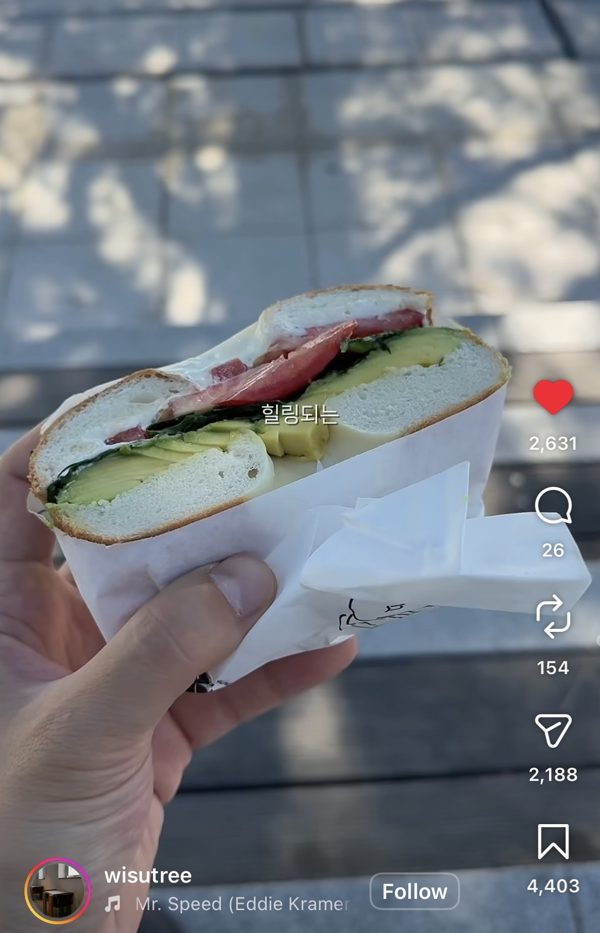
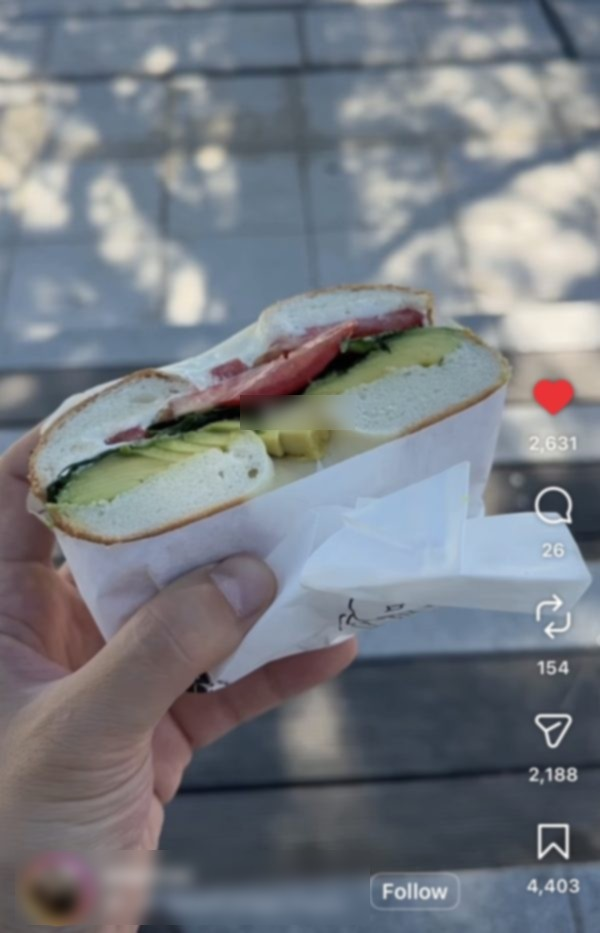
강점 설명 보강, 업로드율 설명 추가, 10월 CPM 제외, 가운뎃점 정리, 재협업 이미지 블러

diff --git a/index.html b/index.html
@@ -146,6 +146,7 @@ td.r,th.r{text-align:right}
 .res{border-left:3px solid var(--sky-deep);padding:4px 0 4px 14px}
 .res .v{font-family:var(--display);font-weight:800;font-size:28px;line-height:1.15}
 .res .k{font-size:13px;color:var(--muted)}
+.res-note{margin:16px 0 0!important;font-size:14px;background:var(--card);border:1px solid var(--line);border-radius:12px;padding:12px 16px}
 .insight{background:var(--ink);color:#fff;border-radius:14px;padding:22px 24px}
 .insight .mono{color:var(--sky)}
 .insight ul{margin:8px 0 0;padding-left:18px}
@@ -208,12 +209,12 @@ footer.end .c{font-family:var(--mono);font-size:13px;line-height:1.9;text-align:
   <nav class="toc" aria-label="목차">
     <div class="who">오혜주</div>
     <a href="#about">About</a>
-    <a href="#tools">툴·광고 플랫폼</a>
+    <a href="#tools">툴 및 광고 플랫폼</a>
     <a href="#projects">핵심 프로젝트</a>
     <a href="#project-01">01 외국인 크리에이터 시딩</a>
     <a href="#project-02">02 성과 기반 유가 협업</a>
     <a href="#other-works">기타 프로젝트</a>
-    <a href="#career">경력·학력</a>
+    <a href="#career">경력 및 학력</a>
     <div class="contact">hyejoo0109@gmail.com<br>010-8365-5241</div>
   </nav>
 
@@ -255,18 +256,18 @@ footer.end .c{font-family:var(--mono);font-size:13px;line-height:1.9;text-align:
           <p class="lead">소비자가 실제로 저장하는 정보형 콘텐츠 안에 브랜드를 넣고, 성과가 검증된 크리에이터와 오래 일하며, 결과는 숫자로 비교합니다.</p>
           <ul>
             <li>호주 오베이글 하우스 바리스타로 입사, 한국 진출과 함께 귀국해 마케팅 매니저로 승진</li>
-            <li>미국 국무부 Global UGRAD 교환학생, 호주 거주·근무 약 2년</li>
+            <li>미국 국무부 Global UGRAD 교환학생, 호주에서 약 2년간 거주하며 근무</li>
           </ul>
           <div class="chips">
             <span class="chip on">TikTok 외국인 무가 시딩</span>
             <span class="chip on">Instagram Reels 유가 협업</span>
-            <span class="chip on">Threads · 샤오홍슈</span>
+            <span class="chip on">Threads, 샤오홍슈</span>
           </div>
           <div class="cols2">
-            <div><h3>Creator Relations</h3><p>성과 기반 재협업으로 비용 대비 조회수 3.7배</p></div>
-            <div><h3>Content Guide Planning</h3><p>여행자가 찾는 정보형 콘텐츠 가이드로 1건당 조회수 3.6배</p></div>
-            <div><h3>Performance Analytics</h3><p>CPM·저장·공유 기준 비교로 유가 협업 CPM 73% 개선</p></div>
-            <div><h3>Global Communication</h3><p>TOEIC 930, TOEIC Speaking AL, 영문 섭외·가이드 직접 작성</p></div>
+            <div><h3>Creator Relations</h3><p>성과가 좋았던 크리에이터, 우리 매장 컨셉과 잘 맞는 크리에이터와 재협업하며 오래 함께 일합니다. 오프라인 요가 행사를 열어 크리에이터끼리 만나는 네트워킹 자리도 만들었습니다. 재협업 비용 대비 조회수 3.7배</p></div>
+            <div><h3>Content Guide Planning</h3><p>외국인 여행자가 찾는 정보, 그리고 한국 손님이 매장이 있는 동네까지 오게 만드는 코스를 가이드에 담습니다. 사람들은 식당 하나만 보고 움직이기보다 주변에서 함께 할 것들을 생각하기 때문입니다. 업로드 1건당 조회수 3.6배</p></div>
+            <div><h3>Performance Analytics</h3><p>CPM, 저장, 공유 수를 같은 기준으로 비교해 유가 협업 CPM 73% 개선</p></div>
+            <div><h3>Global Communication</h3><p>해외 마케팅 에이전시, 호주 본사 직원, 외국인 인플루언서와 모두 영어로 직접 소통합니다. 영문 섭외 메일과 가이드도 직접 씁니다. TOEIC 930, TOEIC Speaking AL</p></div>
           </div>
         </div>
       </div>
@@ -276,12 +277,12 @@ footer.end .c{font-family:var(--mono);font-size:13px;line-height:1.9;text-align:
     <section id="tools">
       <div class="sec-head"><span class="mono">Skill &amp; Tool Stack</span><h2>사용 가능한 툴 및 광고 플랫폼</h2></div>
       <div class="tools">
-        <div class="tool"><b>TikTok · Instagram 인사이트</b><span>게시물별 조회·저장·공유 추출, 크리에이터 선별 기준 수립</span></div>
-        <div class="tool"><b>Google Sheets</b><span>섭외부터 업로드까지 파이프라인 시트, 크리에이터별 CPM 비교·등급표</span></div>
-        <div class="tool"><b>Meta 광고</b><span>호주·한국 캠페인 세팅, 타깃·소재별 성과 비교</span></div>
+        <div class="tool"><b>TikTok, Instagram 인사이트</b><span>게시물별 조회수, 저장 수, 공유 수 추출, 크리에이터 선별 기준 수립</span></div>
+        <div class="tool"><b>Google Sheets</b><span>섭외부터 업로드까지 파이프라인 시트, 크리에이터별 CPM 비교표와 등급표</span></div>
+        <div class="tool"><b>Meta 광고</b><span>호주와 한국 캠페인 세팅, 타깃별 소재별 성과 비교</span></div>
         <div class="tool"><b>Google Ads</b><span>검색광고 운영, 크리에이터 시딩과 비용 대비 성과 비교</span></div>
-        <div class="tool"><b>Shopify</b><span>호주 스토어 상세페이지·배송 안내·카테고리 개선</span></div>
-        <div class="tool"><b>Claude Code</b><span>사내 웹앱 기능 개발(Next.js·Supabase), 반복 업무 자동화</span></div>
+        <div class="tool"><b>Shopify</b><span>호주 스토어 상세페이지, 배송 안내, 카테고리 개선</span></div>
+        <div class="tool"><b>Claude Code</b><span>사내 웹앱 기능 개발(Next.js, Supabase), 반복 업무 자동화</span></div>
       </div>
     </section>
 
@@ -289,10 +290,10 @@ footer.end .c{font-family:var(--mono);font-size:13px;line-height:1.9;text-align:
     <section id="projects">
       <div class="sec-head"><span class="mono">Core Projects</span><h2>핵심 프로젝트</h2></div>
       <div class="cards">
-        <a class="pcard" href="#project-01"><span class="mono">Project 01 · 2026.03 – 2026.10</span><b>외국인 크리에이터 시딩 캠페인</b><span>제안·기획·운영</span><em>1건당 조회수 3.6배</em><i>상세 보기 →</i></a>
-        <a class="pcard" href="#project-02"><span class="mono">Project 02 · 2026.06 – 2026.10</span><b>성과 기반 유가 협업</b><span>기획·협상·운영</span><em>CPM 73% 개선</em><i>상세 보기 →</i></a>
-        <a class="pcard" href="#other-works"><span class="mono">Project 03 · Other Works</span><b>오프라인 행사 및 중개업</b><span>크리에이터 행사 · 한국 브랜드 호주 진출 지원</span><em>호주 진출 브랜드 2곳</em><i>상세 보기 →</i></a>
-        <a class="pcard" href="#work-webapp"><span class="mono">Project 04 · Other Works</span><b>웹앱 바이브 코딩 – 출퇴근 기록부 제작</b><span>Claude Code · Next.js · Supabase</span><em>집계 시간 3시간 → 5분</em><i>상세 보기 →</i></a>
+        <a class="pcard" href="#project-01"><span class="mono">Project 01 / 2026.03 ~ 2026.10</span><b>외국인 크리에이터 시딩 캠페인</b><span>제안, 기획, 운영</span><em>1건당 조회수 3.6배</em><i>상세 보기 →</i></a>
+        <a class="pcard" href="#project-02"><span class="mono">Project 02 / 2026.06 ~ 2026.10</span><b>성과 기반 유가 협업</b><span>기획, 협상, 운영</span><em>CPM 73% 개선</em><i>상세 보기 →</i></a>
+        <a class="pcard" href="#other-works"><span class="mono">Project 03 / Other Works</span><b>오프라인 행사 및 중개업</b><span>크리에이터 행사, 한국 브랜드 호주 진출 지원</span><em>호주 진출 브랜드 2곳</em><i>상세 보기 →</i></a>
+        <a class="pcard" href="#work-webapp"><span class="mono">Project 04 / Other Works</span><b>웹앱 바이브 코딩 - 출퇴근 기록부 제작</b><span>Claude Code, Next.js, Supabase</span><em>집계 시간 3시간 → 5분</em><i>상세 보기 →</i></a>
       </div>
     </section>
 
@@ -301,17 +302,17 @@ footer.end .c{font-family:var(--mono);font-size:13px;line-height:1.9;text-align:
       <div class="sec-head"><span class="mono">Project 01</span><h2>외국인 크리에이터 시딩 캠페인</h2></div>
       <div class="overview">
         <div class="ov"><div class="mono">기간</div><div>2026.03 ~ 2026.10</div></div>
-        <div class="ov"><div class="mono">Role</div><div>제안·기획·운영</div></div>
-        <div class="ov"><div class="mono">채널</div><div>TikTok · Instagram</div></div>
-        <div class="ov"><div class="mono">도구</div><div>성과 시트 · TikTok·IG 인사이트</div></div>
+        <div class="ov"><div class="mono">Role</div><div>제안, 기획, 운영</div></div>
+        <div class="ov"><div class="mono">채널</div><div>TikTok, Instagram</div></div>
+        <div class="ov"><div class="mono">도구</div><div>성과 시트, TikTok, IG 인사이트</div></div>
       </div>
 
       <div class="step">
         <div class="label"><span class="mono">배경</span><h3>손님이 어디서 오는지 몰랐다</h3></div>
         <div>
           <ul>
-            <li>홍대·망원 상권 매장, 외국인 손님은 늘었지만 유입 경로를 알 수 없었음</li>
-            <li>마케팅은 구글·네이버 검색광고에 의존</li>
+            <li>홍대, 망원 상권 매장, 외국인 손님은 늘었지만 유입 경로를 알 수 없었음</li>
+            <li>마케팅은 구글, 네이버 검색광고에 의존</li>
             <li>손님에게 "어떻게 알고 오셨어요?"를 직접 물어 틱톡 유입을 확인</li>
           </ul>
         </div>
@@ -322,16 +323,16 @@ footer.end .c{font-family:var(--mono);font-size:13px;line-height:1.9;text-align:
         <div>
           <ul>
             <li>목표: 외국인 여행자 유입 경로를 검색광고에서 크리에이터 콘텐츠로 확장</li>
-            <li>역할: 시딩 제안부터 섭외·가이드·성과 분석까지 담당</li>
+            <li>역할: 시딩 제안부터 섭외, 가이드, 성과 분석까지 담당</li>
             <li>타깃: 마포구를 찾는 외국인 여행자, 망원 한강공원 나들이 고객</li>
           </ul>
           <details><summary>크리에이터 페르소나 3가지 보기</summary>
           <div class="tbl"><table>
             <thead><tr><th>페르소나</th><th>대상</th><th>채널</th></tr></thead>
             <tbody>
-              <tr><td><b>A</b> In-Korea Creator</td><td>한국에 사는 외국인, 같은 언어권 여행자에게 영향력</td><td>틱톡·인스타 브이로그</td></tr>
-              <tr><td><b>B</b> Asia Traveler</td><td>한국 여행 중인 일본·대만 크리에이터, 비수기 근거리 수요</td><td>틱톡·인스타·샤오홍슈·Threads</td></tr>
-              <tr><td><b>C</b> Local Curator</td><td>데이트·나들이 코스를 큐레이팅하는 한국인 채널</td><td>인스타 릴스</td></tr>
+              <tr><td><b>A</b> In-Korea Creator</td><td>한국에 사는 외국인, 같은 언어권 여행자에게 영향력</td><td>틱톡, 인스타 브이로그</td></tr>
+              <tr><td><b>B</b> Asia Traveler</td><td>한국 여행 중인 일본, 대만 크리에이터, 비수기 근거리 수요</td><td>틱톡, 인스타, 샤오홍슈, Threads</td></tr>
+              <tr><td><b>C</b> Local Curator</td><td>데이트, 나들이 코스를 큐레이팅하는 한국인 채널</td><td>인스타 릴스</td></tr>
             </tbody>
           </table></div></details>
         </div>
@@ -342,16 +343,16 @@ footer.end .c{font-family:var(--mono);font-size:13px;line-height:1.9;text-align:
         <div>
           <div class="tbl"><table>
             <tbody>
-              <tr><th>선정 기준</th><td>팔로워보다 조회수·저장·공유 수, 콘텐츠의 결(맛집·공간·코스)</td></tr>
-              <tr><th>단가 기준</th><td>팔로워 3천~1만은 무가 시딩, 1만 이상은 조회수·참여율로 판단</td></tr>
-              <tr><th>콘텐츠 비율</th><td>단순 맛집 후기 95% → 후기형 6 · 지역 코스형 3 · 트렌드형 1</td></tr>
-              <tr><th>필수 요소</th><td>역 도보 거리·동네 이름, 호주 브랜드, Make your own 옵션 언급</td></tr>
-              <tr><th>파이프라인</th><td>승낙 → 방문 → 리마인드 → 업로드, 조회·저장·CPM 시트 기록</td></tr>
-              <tr><th>시즌 운영</th><td>성수기 준비 시즌 시딩 3배 확대, 겨울엔 일본·대만 유가 협업</td></tr>
+              <tr><th>선정 기준</th><td>팔로워 수보다 조회수, 저장 수, 공유 수, 콘텐츠의 결(맛집, 공간, 코스)</td></tr>
+              <tr><th>단가 기준</th><td>팔로워 3천~1만은 무가 시딩, 1만 이상은 조회수와 참여율로 판단</td></tr>
+              <tr><th>콘텐츠 비율</th><td>단순 맛집 후기 95% → 후기형 6 : 지역 코스형 3 : 트렌드형 1</td></tr>
+              <tr><th>필수 요소</th><td>역 도보 거리, 동네 이름, 호주 브랜드, Make your own 옵션 언급</td></tr>
+              <tr><th>파이프라인</th><td>승낙 → 방문 → 리마인드 → 업로드, 조회수와 저장 수, CPM을 시트에 기록</td></tr>
+              <tr><th>시즌 운영</th><td>성수기 준비 시즌 시딩 3배 확대, 겨울엔 일본, 대만 유가 협업</td></tr>
             </tbody>
           </table></div>
           <div class="duo">
-            <figure><img src="img/collab-kit.jpg" alt="영문 인플루언서 협업 키트"><figcaption>영문 협업 키트 (회사 소개·가이드라인)</figcaption></figure>
+            <figure><img src="img/collab-kit.jpg" alt="영문 인플루언서 협업 키트"><figcaption>영문 협업 키트 (회사 소개와 가이드라인)</figcaption></figure>
             <figure><img src="img/route-map.jpg" alt="망원역 주변 지역 코스 지도"><figcaption>가이드에 넣은 망원역 도보 동선</figcaption></figure>
           </div>
         </div>
@@ -369,10 +370,11 @@ footer.end .c{font-family:var(--mono);font-size:13px;line-height:1.9;text-align:
             <div class="res"><div class="v num">3h → 1h</div><div class="k">하루 시딩 업무 시간</div></div>
             <div class="res"><div class="v num">2.2배</div><div class="k">월매출 (2026년 2월 → 5월)</div></div>
           </div>
+          <p class="res-note">무가 시딩은 업로드 없이 끝나는 경우가 많은데, 방문 전후로 꼼꼼히 리마인드하고 크리에이터 한 명 한 명을 친절하게 대한 것이 평균 업로드율 94%를 지키는 데 영향을 줬다고 생각합니다.</p>
           <div class="gallery">
-            <figure><a href="https://vt.tiktok.com/ZSpttwYp2/" target="_blank" rel="noopener"><img src="img/creator-a.jpg" alt="크리에이터 A 틱톡 (영상 보기)"></a><figcaption><b>A · 남미 · 팔로워 1,300 <a href="https://vt.tiktok.com/ZSpttwYp2/" target="_blank" rel="noopener">영상 보기 ↗</a></b>조회 7만 · 저장 3,813 · 저장률 5.4%<q>You've been to Seongsu, Itaewon, Hongdae.. But have you been to Mangwon?</q></figcaption></figure>
-            <figure><a href="https://www.instagram.com/reel/DaPqTocRZYh/" target="_blank" rel="noopener"><img src="img/creator-b.jpg" alt="크리에이터 B 영상 (영상 보기)"></a><figcaption><b>B · 대만 · 팔로워 1,248 <a href="https://www.instagram.com/reel/DaPqTocRZYh/" target="_blank" rel="noopener">영상 보기 ↗</a></b>조회 15.3만 · 저장 6,046 · 공유 5,340<q>대만 분들에게 잘 안 알려진 곳, 서울 오면 꼭 들러보세요</q></figcaption></figure>
-            <figure><a href="https://vt.tiktok.com/ZSptthWoW/" target="_blank" rel="noopener"><img src="img/creator-c.jpg" alt="크리에이터 C 틱톡 (영상 보기)"></a><figcaption><b>C · 미얀마 · 한국 거주 <a href="https://vt.tiktok.com/ZSptthWoW/" target="_blank" rel="noopener">영상 보기 ↗</a></b>조회 32만 · 좋아요 4.5만<q>서울에 유학하는 학생의 일상을 보여드릴게요</q></figcaption></figure>
+            <figure><a href="https://vt.tiktok.com/ZSpttwYp2/" target="_blank" rel="noopener"><img src="img/creator-a.jpg" alt="크리에이터 A 틱톡 (영상 보기)"></a><figcaption><b>A. 남미 크리에이터, 팔로워 1,300 <a href="https://vt.tiktok.com/ZSpttwYp2/" target="_blank" rel="noopener">영상 보기 ↗</a></b>조회 7만 / 저장 3,813 / 저장률 5.4%<q>You've been to Seongsu, Itaewon, Hongdae.. But have you been to Mangwon?</q></figcaption></figure>
+            <figure><a href="https://www.instagram.com/reel/DaPqTocRZYh/" target="_blank" rel="noopener"><img src="img/creator-b.jpg" alt="크리에이터 B 영상 (영상 보기)"></a><figcaption><b>B. 대만 크리에이터, 팔로워 1,248 <a href="https://www.instagram.com/reel/DaPqTocRZYh/" target="_blank" rel="noopener">영상 보기 ↗</a></b>조회 15.3만 / 저장 6,046 / 공유 5,340<q>대만 분들에게 잘 안 알려진 곳, 서울 오면 꼭 들러보세요</q></figcaption></figure>
+            <figure><a href="https://vt.tiktok.com/ZSptthWoW/" target="_blank" rel="noopener"><img src="img/creator-c.jpg" alt="크리에이터 C 틱톡 (영상 보기)"></a><figcaption><b>C. 한국에 사는 미얀마 크리에이터 <a href="https://vt.tiktok.com/ZSptthWoW/" target="_blank" rel="noopener">영상 보기 ↗</a></b>조회 32만 / 좋아요 4.5만<q>서울에 유학하는 학생의 일상을 보여드릴게요</q></figcaption></figure>
           </div>
         </div>
       </div>
@@ -383,7 +385,7 @@ footer.end .c{font-family:var(--mono);font-size:13px;line-height:1.9;text-align:
           <span class="mono">What I learned</span>
           <ul>
             <li>팔로워 1천 명대 계정도 지역 코스를 담으면 15만 조회까지 나옴</li>
-            <li>방문으로 이어지는 신호는 좋아요보다 저장·공유</li>
+            <li>방문으로 이어지는 신호는 좋아요보다 저장, 공유</li>
             <li>가이드라인은 금지 사항보다 "넣어야 할 정보"를 줄 때 성과가 오름</li>
           </ul>
         </div>
@@ -394,8 +396,8 @@ footer.end .c{font-family:var(--mono);font-size:13px;line-height:1.9;text-align:
         <div class="apply">
           <span class="mono">How it applies</span>
           <ul>
-            <li>미국 마이크로 크리에이터를 팔로워가 아닌 저장·공유율로 선별</li>
-            <li>스킨케어 루틴·사용 전후처럼 저장되는 정보형 포맷에 제품을 배치</li>
+            <li>미국 마이크로 크리에이터를 팔로워 수가 아닌 저장률과 공유율로 선별</li>
+            <li>스킨케어 루틴이나 사용 전후처럼 저장되는 정보형 포맷에 제품을 배치</li>
             <li>크리에이터별 CPM 시트로 재협업 대상을 숫자로 결정</li>
           </ul>
         </div>
@@ -407,9 +409,9 @@ footer.end .c{font-family:var(--mono);font-size:13px;line-height:1.9;text-align:
       <div class="sec-head"><span class="mono">Project 02</span><h2>성과 기반 유가 협업</h2></div>
       <div class="overview">
         <div class="ov"><div class="mono">기간</div><div>2026.06 ~ 2026.10</div></div>
-        <div class="ov"><div class="mono">Role</div><div>기획·협상·운영</div></div>
-        <div class="ov"><div class="mono">채널</div><div>Reels · TikTok · Threads · 샤오홍슈</div></div>
-        <div class="ov"><div class="mono">도구</div><div>CPM 비교 시트 · 크리에이터 등급표</div></div>
+        <div class="ov"><div class="mono">Role</div><div>기획, 협상, 운영</div></div>
+        <div class="ov"><div class="mono">채널</div><div>Reels, TikTok, Threads, 샤오홍슈</div></div>
+        <div class="ov"><div class="mono">도구</div><div>CPM 비교 시트, 크리에이터 등급표</div></div>
       </div>
 
       <div class="step">
@@ -425,18 +427,18 @@ footer.end .c{font-family:var(--mono);font-size:13px;line-height:1.9;text-align:
         <div><ul>
           <li>목표: CPM을 초기 수준 이하로 낮추고 재협업 대상을 숫자로 선정</li>
           <li>역할: 협업 기준 설계, 단가 협상, 콘텐츠 디렉팅</li>
-          <li>CPM·저장·공유 기준으로 크리에이터 등급 부여, 상위 등급만 재협업</li>
-          <li>재협업 대상은 브랜드를 어떻게 보여줄지 명확하고, 업로드·댓글 관리가 충실한 크리에이터</li>
-          <li>한국과 가깝지만 인지도가 낮은 일본·대만 시장으로 확장</li>
+          <li>CPM, 저장, 공유 기준으로 크리에이터 등급을 매기고, 상위 등급만 재협업</li>
+          <li>재협업 대상은 브랜드를 어떻게 보여줄지 명확하고, 업로드, 댓글 관리가 충실한 크리에이터</li>
+          <li>한국과 가깝지만 인지도가 낮은 일본, 대만 시장으로 확장</li>
         </ul></div>
       </div>
 
       <div class="step">
-        <div class="label"><span class="mono">실행</span><h3>재협업 · 대만 · 협상</h3></div>
+        <div class="label"><span class="mono">실행</span><h3>재협업, 대만 확장, 협상</h3></div>
         <div>
           <div class="gallery">
             <figure><img src="img/recollab.jpg" alt="재협업 콘텐츠"><figcaption><b>재협업</b>브랜드를 지역 코스 속 한 장소로 소개하도록 컨셉 디렉팅</figcaption></figure>
-            <figure><img src="img/taiwan-threads.jpg" alt="대만 크리에이터 Threads 게시물" style="object-position:top"><figcaption><b>대만</b>반응 좋던 무가 크리에이터를 유가로 확장, Threads·샤오홍슈 업로드</figcaption></figure>
+            <figure><img src="img/taiwan-threads.jpg" alt="대만 크리에이터 Threads 게시물" style="object-position:top"><figcaption><b>대만</b>반응 좋던 무가 크리에이터를 유가로 확장, Threads, 샤오홍슈 업로드</figcaption></figure>
             <figure><img src="img/event-post.jpg" alt="식사권 댓글 이벤트 게시물"><figcaption><b>협상</b>유가 대신 식사권 댓글 이벤트로 진행, 참여율 5.6%</figcaption></figure>
           </div>
         </div>
@@ -446,8 +448,8 @@ footer.end .c{font-family:var(--mono);font-size:13px;line-height:1.9;text-align:
         <div class="label"><span class="mono">성과</span><h3>CPM 73% 개선</h3></div>
         <div>
           <div class="chart">
-            <div class="t">유가 협업 CPM</div><div class="u">2026년 6~10월, 단위 원</div>
-            <svg id="chart-cpm" viewBox="0 0 600 220" role="img" aria-label="2026년 6월 9,232원, 7월 18,409원, 8월 8,863원, 9월 4,893원, 10월 8,911원"></svg>
+            <div class="t">유가 협업 CPM</div><div class="u">2026년 6~9월, 단위 원</div>
+            <svg id="chart-cpm" viewBox="0 0 600 220" role="img" aria-label="2026년 6월 9,232원, 7월 18,409원, 8월 8,863원, 9월 4,893원"></svg>
           </div>
           <div class="results">
             <div class="res"><div class="v num">−73%</div><div class="k">CPM, 2026년 7월 대비 9월</div></div>
@@ -473,7 +475,7 @@ footer.end .c{font-family:var(--mono);font-size:13px;line-height:1.9;text-align:
         <div class="apply">
           <span class="mono">How it applies</span>
           <ul>
-            <li>미국 크리에이터 풀을 CPM·저장률 등급으로 관리해 재협업 예산을 우선 배정</li>
+            <li>미국 크리에이터 풀을 CPM과 저장률 등급으로 관리해 재협업 예산을 우선 배정</li>
             <li>크리에이터별로 잘 맞는 콘텐츠 주제를 기록해 브리프에 반영</li>
           </ul>
         </div>
@@ -487,40 +489,40 @@ footer.end .c{font-family:var(--mono);font-size:13px;line-height:1.9;text-align:
         <article class="work">
           <img src="img/yoga.jpg" alt="크리에이터 오프라인 요가 행사">
           <div class="b"><span class="mono">Work 01</span><h3>크리에이터 오프라인 요가 행사</h3>
-            <ul><li>한국 거주 크리에이터 대상 행사 기획·진행</li><li>협업 인플루언서와 손님을 함께 모집·선정</li></ul></div>
+            <ul><li>한국 거주 크리에이터 대상 행사 기획과 진행</li><li>협업 인플루언서와 손님을 함께 모집하고 선정</li></ul></div>
         </article>
         <article class="work">
-          <div class="b"><span class="mono">Work 02 · 03</span><h3>한국 브랜드 호주 진출 지원</h3>
-            <ul><li>화장품 브랜드: 12주 로드맵, 3개월 예산 설계, 호주 크리에이터 영문 소개 자료·섭외</li><li>의류 브랜드 (유스컬처 스트릿): 호주 Shopify 스토어와 메타·구글 광고 운영, 상세페이지 개선 기획</li></ul></div>
+          <div class="b"><span class="mono">Work 02, 03</span><h3>한국 브랜드 호주 진출 지원</h3>
+            <ul><li>화장품 브랜드: 12주 로드맵, 3개월 예산 설계, 호주 크리에이터 영문 소개 자료 제작과 섭외</li><li>의류 브랜드 (유스컬처 스트릿): 호주 Shopify 스토어와 메타, 구글 광고 운영, 상세페이지 개선 기획</li></ul></div>
         </article>
         <article class="work" id="work-webapp" style="grid-column:1/-1">
           <div class="shots">
             <figure><img src="img/attendance.jpg" alt="출퇴근 기록부 키오스크 화면 (직원 이름 블러 처리)"><figcaption>키오스크 화면: 부서별 직원 카드를 눌러 출퇴근 기록</figcaption></figure>
             <figure><img src="img/attendance-admin.jpg" alt="출퇴근 기록부 관리자 화면 (직원 이름 블러 처리)"><figcaption>관리자 화면: 직원 관리, 월별 기록 조회, 엑셀 다운로드, 연차 승인</figcaption></figure>
           </div>
-          <div class="b"><span class="mono">Work 04</span><h3>웹앱 바이브 코딩 – 출퇴근 기록부 제작</h3>
-            <ul><li>Claude Code로 사내 웹앱(Next.js·Supabase)에 출퇴근 기록부 기능 개발</li><li>부서별 직원 카드를 눌러 출퇴근을 기록하는 매장용 키오스크 화면과 관리자 화면 구성</li><li>월말 근무시간 집계 시간 3시간 이상 → 5분 이내</li></ul></div>
+          <div class="b"><span class="mono">Work 04</span><h3>웹앱 바이브 코딩 - 출퇴근 기록부 제작</h3>
+            <ul><li>Claude Code로 사내 웹앱(Next.js, Supabase)에 출퇴근 기록부 기능 개발</li><li>부서별 직원 카드를 눌러 출퇴근을 기록하는 매장용 키오스크 화면과 관리자 화면 구성</li><li>월말 근무시간 집계 시간 3시간 이상 → 5분 이내</li></ul></div>
         </article>
       </div>
     </section>
 
     <!-- ===== 경력·학력 (최신순) ===== -->
     <section id="career">
-      <div class="sec-head"><span class="mono">Career</span><h2>경력·학력</h2></div>
+      <div class="sec-head"><span class="mono">Career</span><h2>경력 및 학력</h2></div>
       <div class="timeline">
-        <div class="tl"><div class="when">2023.05 – 현재</div><div><h3>오베이글 하우스 (주식회사 오비에프앤비)</h3><p>호주 바리스타 → 한국 지점 근무 → 마케팅 전환(2025.06) → 마케팅 매니저(2026.02)</p></div></div>
-        <div class="tl"><div class="when">2022.10 – 2024.07</div><div><h3>유니클로 호주</h3><p>Sales Assistant → Assistant Store Manager, 직원 50명 이상 관리</p></div></div>
-        <div class="tl"><div class="when">2021.03 – 2021.11</div><div><h3>아이엠증권 (구 하이투자증권)</h3><p>결제업무 부서 사무 지원</p></div></div>
+        <div class="tl"><div class="when">2023.05 ~ 현재</div><div><h3>오베이글 하우스 (주식회사 오비에프앤비)</h3><p>호주 바리스타 → 한국 지점 근무 → 마케팅 전환(2025.06) → 마케팅 매니저(2026.02)</p></div></div>
+        <div class="tl"><div class="when">2022.10 ~ 2024.07</div><div><h3>유니클로 호주</h3><p>Sales Assistant → Assistant Store Manager, 직원 50명 이상 관리</p></div></div>
+        <div class="tl"><div class="when">2021.03 ~ 2021.11</div><div><h3>아이엠증권 (구 하이투자증권)</h3><p>결제업무 부서 사무 지원</p></div></div>
       </div>
       <div class="edu">
-        <div><h3>학력·해외 경험</h3><ul>
-          <li>숙명여자대학교 경영학부·경제학부 (2019.03 – 2026.08)</li>
+        <div><h3>학력 및 해외 경험</h3><ul>
+          <li>숙명여자대학교 경영학부, 경제학부 (2019.03 ~ 2026.08)</li>
           <li>미국 Oglethorpe University 교환학생, Global UGRAD 장학생</li>
           <li>가치투자동아리 SURI, 삼성증권 대학생 봉사단 YAHO</li>
         </ul></div>
-        <div><h3>어학·자격</h3><ul>
-          <li>TOEIC 930 · TOEIC Speaking AL</li>
-          <li>투자자산운용사 · 펀드투자권유대행인</li>
+        <div><h3>어학 및 자격</h3><ul>
+          <li>TOEIC 930, TOEIC Speaking AL</li>
+          <li>투자자산운용사, 펀드투자권유대행인</li>
           <li>컴퓨터활용능력 2급</li>
         </ul></div>
       </div>
@@ -555,7 +557,7 @@ function lineChart(id, labels, values, maxV, step, fmt){
   });
 }
 lineChart('chart-views',['3월','4월','5월','6월'],[2093,2667,5090,7571],8000,2000,v=>v.toLocaleString('ko-KR'));
-lineChart('chart-cpm',['6월','7월','8월','9월','10월'],[9232,18409,8863,4893,8911],20000,5000,v=>v.toLocaleString('ko-KR'));
+lineChart('chart-cpm',['6월','7월','8월','9월'],[9232,18409,8863,4893],20000,5000,v=>v.toLocaleString('ko-KR'));
 </script>
 </body>
 </html>
